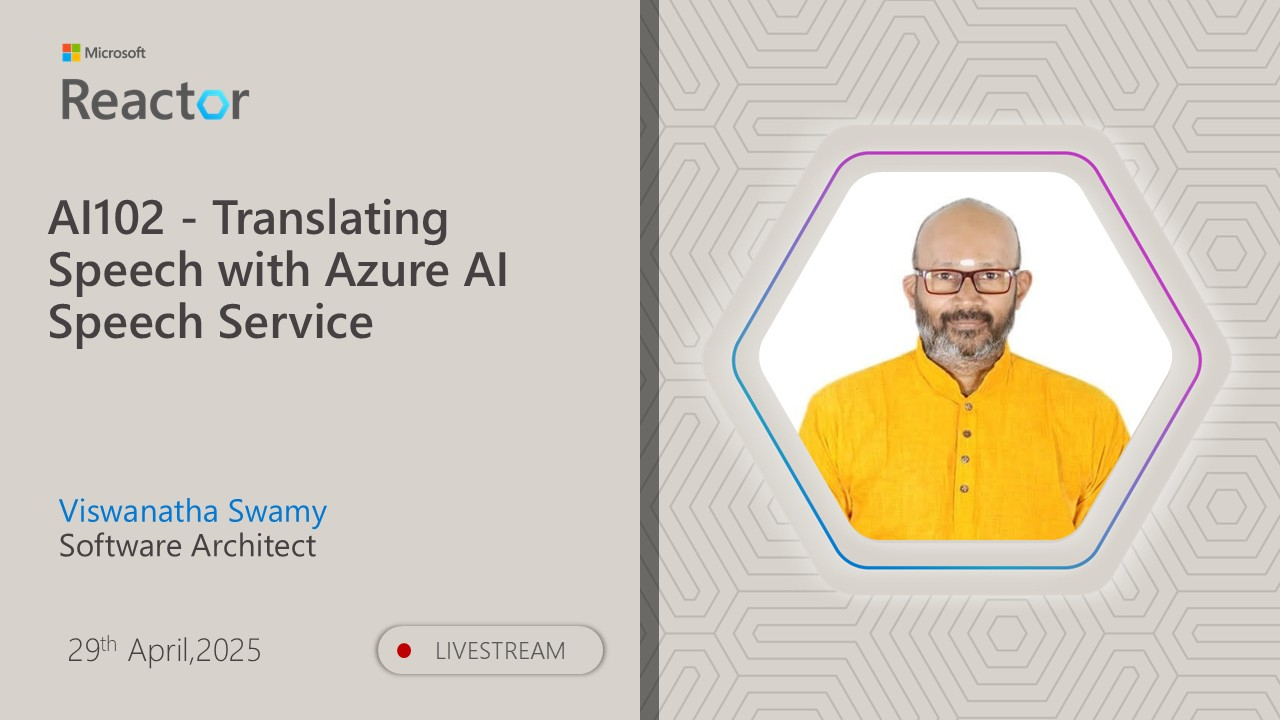
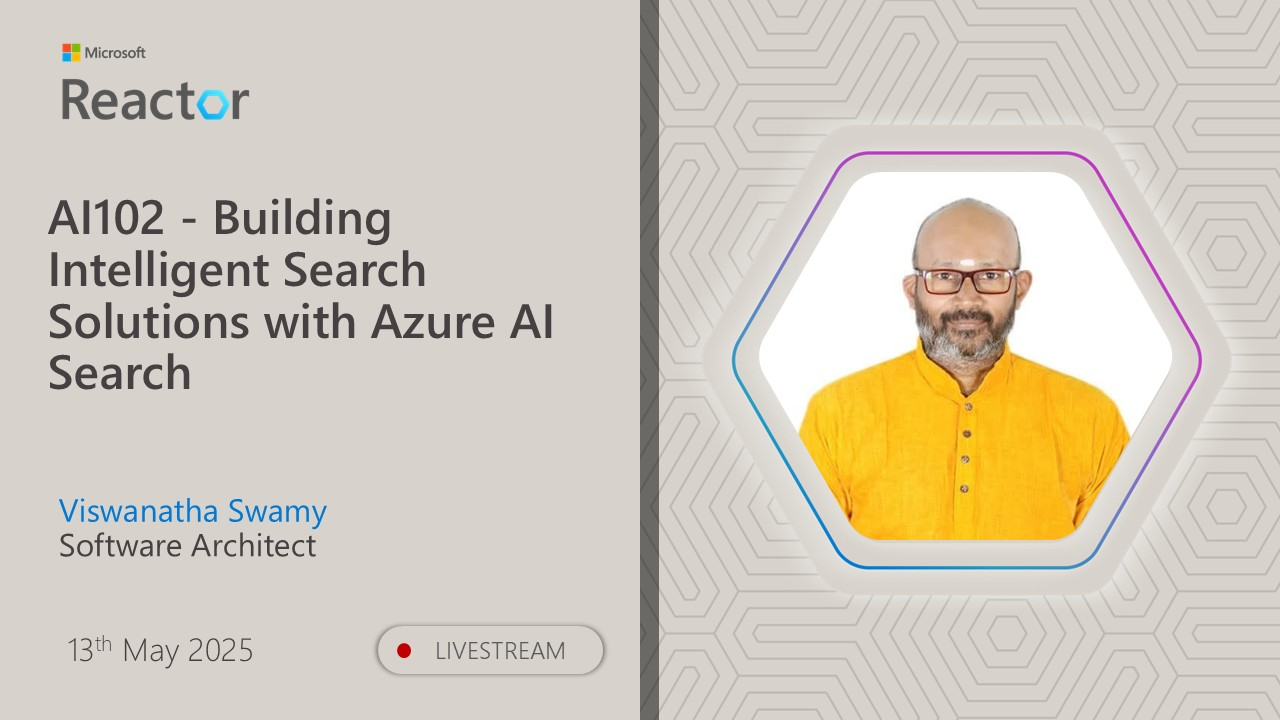
Swamy/12may work (#50)
* Update README.md

* REmoved the old files

Changed region(s): [[0.0312, 0.275, 0.4375, 0.55], [0.0312, 0.8861, 0.2188, 0.9167]]

diff --git a/0513_MSFT_Reactor_AI102_S26/README.md b/0513_MSFT_Reactor_AI102_S26/README.md
@@ -1,10 +1,10 @@
-# AI-102 - Translating Speech with Azure AI Speech Service
+# AI-102 - Building Intelligent Search Solutions with Azure AI Search
 
-## Date Time: 29-Apr-2025 at 03:30 PM IST
+## Date Time: 13-May-2025 at 03:30 PM IST
 
-## Event URL: [https://www.meetup.com/microsoft-reactor-bengaluru/events/307042377](https://www.meetup.com/microsoft-reactor-bengaluru/events/307042377)
+## Event URL: [https://www.meetup.com/microsoft-reactor-bengaluru/events/307042690](https://www.meetup.com/microsoft-reactor-bengaluru/events/307042690)
 
-## YouTube URL: [https://www.youtube.com/watch?v=fyZwhob8klU](https://www.youtube.com/watch?v=fyZwhob8klU)
+## YouTube URL: [https://www.youtube.com/watch?v=RKFELXBefeY](https://www.youtube.com/watch?v=RKFELXBefeY)
 
 ![Viswanatha Swamy P K |150x150](./Documentation/Images/ViswanathaSwamyPK.PNG)
 
